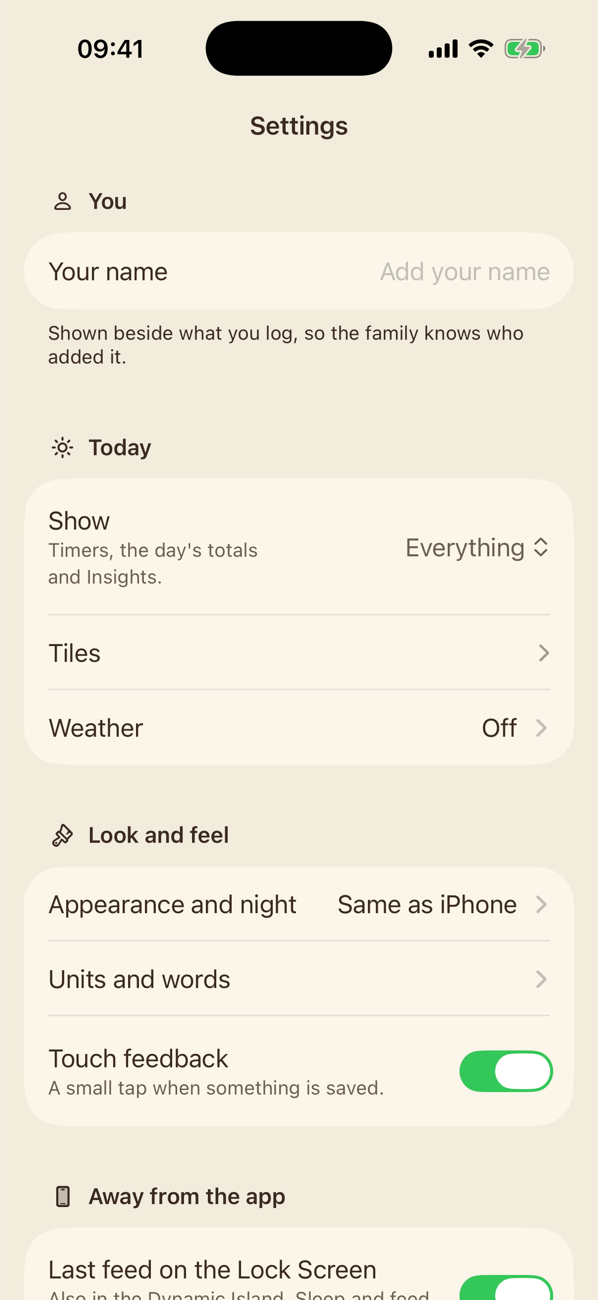
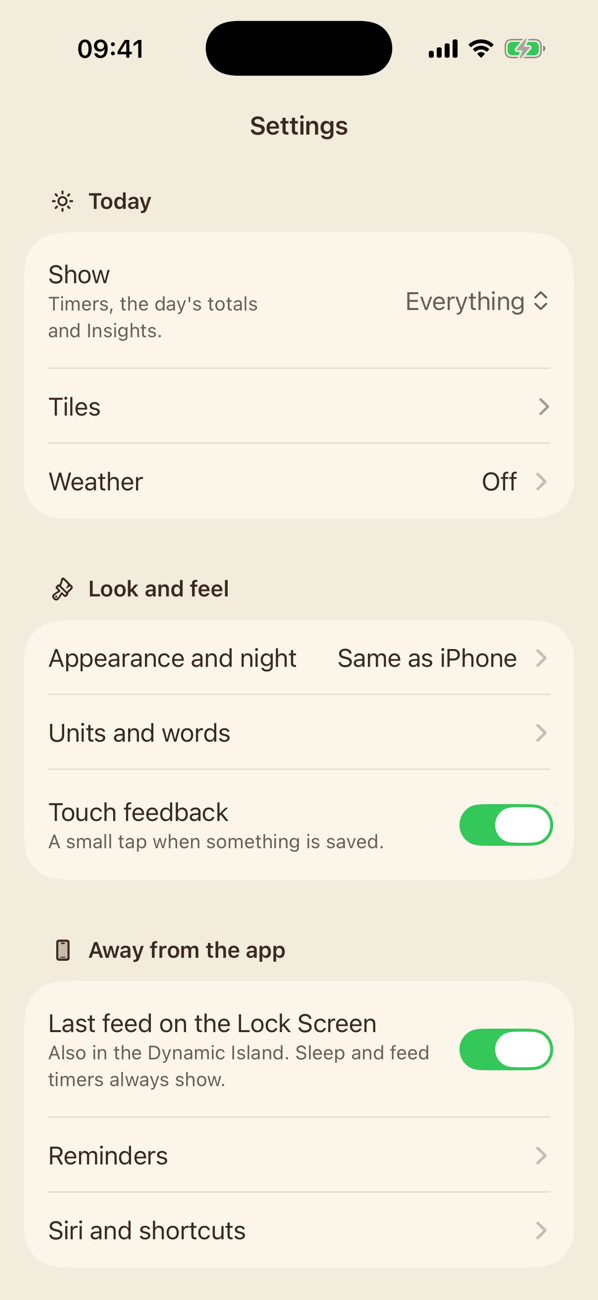
You at the head of Family, Puggle on the weather page, and plainer copy on the other settings screens

diff --git a/app/Puggle/Features/Family/SettingsDetailViews.swift b/app/Puggle/Features/Family/SettingsDetailViews.swift
@@ -200,6 +200,11 @@ struct WeatherSettingsView: View {
     var body: some View {
         List {
             Section {
+                WeatherPreview(live: isOn && watch.trouble == nil ? Weather(rawValue: live) : nil)
+                    .listRowInsets(EdgeInsets())
+                    .listRowBackground(Color.clear)
+            }
+            Section {
                 Toggle("Match the weather outside", isOn: Binding(get: { isOn }, set: { on in
                     if on { watch.turnOn() } else { watch.turnOff() }
                 }))
@@ -210,9 +215,7 @@ struct WeatherSettingsView: View {
                         if TesterDetail.on, let detail = watch.troubleDetail {
                             Text(detail).font(.footnote.monospaced()).foregroundStyle(Palette.muted).textSelection(.enabled)
                         }
-                    } else if let now = Weather(rawValue: live) {
-                        LabeledContent("Now", value: now.name)
-                    } else {
+                    } else if Weather(rawValue: live) == nil {
                         LabeledContent("Now", value: "Checking")
                     }
                 }
@@ -245,5 +248,60 @@ struct WeatherSettingsView: View {
         .background(Palette.sand)
         .navigationTitle("Weather on Today")
         .navigationBarTitleDisplayMode(.inline)
+    }
+}
+
+/// Puggle in her scene, at the top of the weather page, showing what the switch does (Tom, 15 November 2026).
+/// With the weather on it is the weather outside now. With it off, it steps through a few kinds as examples,
+/// by day so each can be seen. With Reduce Motion it holds on rain.
+private struct WeatherPreview: View {
+    /// The real weather, when it is on and known.
+    let live: Weather?
+
+    @StateObject private var controller = PuggleController()
+    @Environment(\.accessibilityReduceMotion) private var reduceMotion
+    @Environment(\.colorScheme) private var scheme
+    @Environment(\.puggleNight) private var night
+    @State private var step = 0
+    private static let examples: [Weather] = [.rain, .clear, .windy, .snow, .hot]
+
+    private var weather: Weather { live ?? Self.examples[step % Self.examples.count] }
+
+    var body: some View {
+        let dark = live != nil && (scheme == .dark || night)
+        let after = live != nil && PuggleScene.isNight(dark: dark)
+        let wearing = weather.outfit(night: after)
+        ZStack(alignment: .bottom) {
+            PuggleScene(kind: .today, dark: dark, hourOverride: live == nil ? 11 : nil, weather: weather)
+            PuggleView(controller: controller)
+                .environment(\.moonlit, after)
+                .environment(\.outfit, wearing)
+                .environment(\.shades, Shades.forOutfit(wearing))
+                .frame(height: 104)
+                .padding(.bottom, 22)
+                .id(wearing)
+        }
+        .frame(height: 190)
+        .frame(maxWidth: .infinity)
+        .clipShape(RoundedRectangle(cornerRadius: 22, style: .continuous))
+        .overlay(alignment: .topLeading) {
+            Text(live == nil ? "For example: \(weather.name.lowercased())" : weather.name)
+                .font(.footnote.weight(.semibold))
+                .foregroundStyle(Palette.fixedInk)
+                .padding(.horizontal, 10)
+                .padding(.vertical, 5)
+                .background(Palette.fixedPaper.opacity(0.9), in: Capsule())
+                .padding(10)
+        }
+        .animation(.easeInOut(duration: 0.6), value: weather)
+        .accessibilityElement()
+        .accessibilityLabel(live == nil ? "A picture of Puggle in the \(weather.name.lowercased())" : "Puggle in today's weather: \(weather.name.lowercased())")
+        .task(id: live == nil) {
+            guard live == nil, !reduceMotion else { return }
+            while !Task.isCancelled {
+                try? await Task.sleep(for: .seconds(3.5))
+                step += 1
+            }
+        }
     }
 }

diff --git a/app/Puggle/Features/Family/FamilyView.swift b/app/Puggle/Features/Family/FamilyView.swift
@@ -10,6 +10,7 @@ struct FamilyView: View {
     private var children: [Child] { store.onScreen(allChildren) }
 
     @State private var addingChild = false
+    @State private var showingYou = false
     @FetchRequest(sortDescriptors: [SortDescriptor(\Person.createdAt)]) private var allPeople: FetchedResults<Person>
     @State private var sharing: SharingItem?
     @State private var shareError: String?
@@ -31,20 +32,28 @@ struct FamilyView: View {
                         .listRowInsets(EdgeInsets())
                         .listRowBackground(Color.clear)
                 }
+                // You, at the head of your family, as the iPhone's own Settings has it (Tom, 15 November 2026).
                 Section {
-                    NavigationLink {
-                        SettingsView()
-                    } label: {
-                        HStack(spacing: 12) {
-                            Image(systemName: "gearshape")
-                                .font(.system(size: 34))
-                                .frame(width: 40, height: 40)
-                            VStack(alignment: .leading) {
-                                Text("Settings").font(.headline)
-                                Text("Reminders, your data and help").font(.subheadline).foregroundStyle(Palette.muted)
+                    Button { showingYou = true } label: {
+                        HStack(spacing: 14) {
+                            YourAvatar(size: 56)
+                            VStack(alignment: .leading, spacing: 2) {
+                                Text(yourName.trimmingCharacters(in: .whitespaces).isEmpty ? "Add your name" : yourName)
+                                    .font(.title3.weight(.semibold))
+                                    .foregroundStyle(Palette.ink)
+                                Text("\(store.role.title) · \(store.familyName.isEmpty ? store.childrenTitle : store.familyName)")
+                                    .font(.subheadline)
+                                    .foregroundStyle(Palette.muted)
+                                    .lineLimit(1)
                             }
+                            Spacer(minLength: 0)
+                            Image(systemName: "chevron.right").font(.footnote.weight(.semibold)).foregroundStyle(Palette.muted.opacity(0.6))
                         }
+                        .padding(.vertical, 4)
+                        .contentShape(Rectangle())
                     }
+                    .buttonStyle(.plain)
+                    .accessibilityHint("Your name and photo")
                     .listRowBackground(Palette.paper)
                 }
                 if store.isParent && !sample.isOn {
@@ -160,11 +169,18 @@ struct FamilyView: View {
                 if let shareError {
                     Text(shareError).font(.footnote).foregroundStyle(Palette.waratah)
                 }
+                Section {
+                    NavigationLink { SettingsView() } label: { Label("Settings", systemImage: "gearshape") }
+                    NavigationLink { HelpView() } label: { Label("Help and about", systemImage: "questionmark.circle") }
+                }
+                .foregroundStyle(Palette.ink)
+                .listRowBackground(Palette.paper)
             }
             .scrollContentBackground(.hidden)
             .background(Palette.sand)
             .navigationTitle("Family")
             .sheet(isPresented: $addingChild) { AddChildView() }
+            .sheet(isPresented: $showingYou) { YouView() }
             .sheet(isPresented: $inviting) {
                 InviteSheet { invite in
                     pending = invite

diff --git a/app/Puggle/Features/Reminders/Reminders.swift b/app/Puggle/Features/Reminders/Reminders.swift
@@ -260,7 +260,7 @@ struct RemindersView: View {
             }
             Section {
                 if reminders.reminders.isEmpty {
-                    Text("No reminders yet. They are off until you add one.")
+                    Text("No reminders yet.")
                         .foregroundStyle(Palette.muted)
                 }
                 ForEach(reminders.reminders) { reminder in
@@ -271,7 +271,7 @@ struct RemindersView: View {
                     offsets.map { reminders.reminders[$0] }.forEach(reminders.delete)
                 }
             } footer: {
-                Text("Reminders are just for you, on this iPhone. Nobody else in the family gets them.")
+                Text("Reminders show on this iPhone only.")
             }
             .listRowBackground(Palette.paper)
 
@@ -283,7 +283,7 @@ struct RemindersView: View {
                     }
             } footer: {
                 Text(justLog ? "Off while Just logging is on." :
-                     "Two days before a child reaches a new row on a tin you've read, once. It says the row changes, not how much to give.")
+                     "Once, two days before a child reaches a new row on a tin you've read. It says the row changes, not how much to give.")
             }
             .listRowBackground(Palette.paper)
             .disabled(justLog)
@@ -407,7 +407,7 @@ private struct ReminderEditor: View {
         .listRowBackground(Palette.paper)
         Section {
         } footer: {
-            Text("Counted from the last feed anyone logged. You choose the time; the app doesn't suggest one.")
+            Text("Counted from the last feed anyone logged. The app never suggests a time.")
         }
     }
 
@@ -434,7 +434,7 @@ private struct ReminderEditor: View {
             DatePicker("From", selection: minutes(\.from), displayedComponents: .hourAndMinute)
             DatePicker("Until", selection: minutes(\.until), displayedComponents: .hourAndMinute)
         } footer: {
-            Text("A gentle \"Time to try?\" during the day. Never a nag.")
+            Text("A quiet \"Time to try?\" between these times.")
         }
     }
 

diff --git a/app/Puggle/Features/Family/SettingsView.swift b/app/Puggle/Features/Family/SettingsView.swift
@@ -40,12 +40,11 @@ enum Setting {
 /// Settings, reached from the Family tab.
 ///
 /// Grouped by what a parent is trying to do (Tom, 15 November 2026: it felt crammed and confusing):
-/// who they are, what Today shows, how the app looks, what shows away from the app, the children, privacy
+/// what Today shows, how the app looks, what shows away from the app, the children, privacy
 /// and data, and help. Every section has a heading. A line of help sits inside the row it explains, so it
 /// is never read as being about the whole group. Appearance, units, weather and reminders have their own screens.
 struct SettingsView: View {
     @EnvironmentObject private var sample: SampleFamily
-    @AppStorage(Setting.yourName) private var yourName = ""
     @AppStorage(Setting.justLog) private var justLog = false
     @AppStorage(Setting.pottyStickers) private var stickersOn = true
     @AppStorage(Setting.lockScreenGlance) private var glanceOn = true
@@ -58,7 +57,6 @@ struct SettingsView: View {
 
     var body: some View {
         List {
-            youSection
             todaySection
             lookSection
             awaySection
@@ -96,22 +94,6 @@ struct SettingsView: View {
             Text(help).font(.footnote).foregroundStyle(Palette.muted).fixedSize(horizontal: false, vertical: true)
         }
         .padding(.vertical, 3)
-    }
-
-    private var youSection: some View {
-        Section {
-            LabeledContent("Your name") {
-                TextField("Add your name", text: $yourName)
-                    .textContentType(.givenName)
-                    .submitLabel(.done)
-                    .multilineTextAlignment(.trailing)
-            }
-        } header: {
-            heading("You", "person")
-        } footer: {
-            Text("Shown beside what you log, so the family knows who added it.")
-        }
-        .listRowBackground(Palette.paper)
     }
 
     private var todaySection: some View {

diff --git a/app/Puggle/Features/Family/YourDataView.swift b/app/Puggle/Features/Family/YourDataView.swift
@@ -22,11 +22,11 @@ struct YourDataView: View {
 
     var body: some View {
         List {
-            Section("Where it lives") {
+            Section("Where it's kept") {
                 Text(Persistence.cloudSyncEnabled
-                     ? "Everything you log is kept on this iPhone and in your own iCloud, so it reaches the people you invite. We hold none of it."
+                     ? "Everything you log is kept on this iPhone and in your own iCloud, so it reaches the people you invite. Nobody else has a copy."
                      : "Everything you log is kept on this iPhone only. This build does not use iCloud, so nothing leaves the phone and nothing is shared.")
-                Text("No ads, no tracking, no analytics.")
+                Text("No ads and no tracking.")
                 if store.isSample {
                     Text("This is the sample family, so an export holds the made-up entries.")
                 }
@@ -213,7 +213,7 @@ struct HelpView: View {
     var body: some View {
         List {
             if matches.isEmpty {
-                Text("Nothing found. Try another word, or get in touch below.")
+                Text("Nothing found. Try another word, or send an email below.")
                     .foregroundStyle(Palette.muted)
                     .listRowBackground(Palette.paper)
             }
@@ -236,10 +236,10 @@ struct HelpView: View {
                 Button {
                     contact()
                 } label: {
-                    Label("Contact us", systemImage: "envelope")
+                    Label("Send an email", systemImage: "envelope")
                 }
             } footer: {
-                Text("Opens an email with the app and iOS version filled in, so it's easy to help.")
+                Text("Opens an email with the app and iOS version filled in.")
             }
             .listRowBackground(Palette.paper)
             Section("About") {

diff --git a/app/Puggle/Features/Family/SiriView.swift b/app/Puggle/Features/Family/SiriView.swift
@@ -16,7 +16,7 @@ struct SiriView: View {
     private var phrases: [(symbol: String, words: String, does: String)] {
         [("moon", "Start sleep for \(name) in Puggle", "Starts the sleep timer"),
          ("sun.max", "\(name) woke up in Puggle", "Ends it"),
-         ("drop", "Log \(Terms.aNappy) for \(name) in Puggle", "Saves a wet \(Terms.nappyLower). Change it in the app if not"),
+         ("drop", "Log \(Terms.aNappy) for \(name) in Puggle", "Saves a wet \(Terms.nappyLower). Change it later in the app"),
          ("waterbottle", "Log a bottle for \(name) in Puggle", "Asks how much"),
          ("clock", "When was \(name) last fed in Puggle", "Tells you, out loud")]
     }
@@ -40,7 +40,7 @@ struct SiriView: View {
             } header: {
                 Text("Say to Siri")
             } footer: {
-                Text("Nothing to set up. Say \u{201C}Hey Siri\u{201D} or hold the side button first. Any child's name works.")
+                Text("Say \u{201C}Hey Siri\u{201D} or hold the side button first. Any child's name works.")
             }
             .listRowBackground(Palette.paper)
 
@@ -71,7 +71,7 @@ struct SiriView: View {
             } header: {
                 Text("A dark look at bedtime")
             } footer: {
-                Text("The app goes dark at bedtime; the rest of the phone doesn't change.")
+                Text("Only the app goes dark. The rest of the phone doesn't change.")
             }
             .listRowBackground(Palette.paper)
         }

diff --git a/app/Puggle/Features/Family/YouView.swift b/app/Puggle/Features/Family/YouView.swift
@@ -61,7 +61,7 @@ struct YourAvatar: View {
     }
 }
 
-/// You: your photo and name. Settings and Help are one row away.
+/// You: your photo and name. Settings and Help are on the Family tab.
 struct YouView: View {
     @Environment(\.dismiss) private var dismiss
     @AppStorage(Setting.yourName) private var yourName = ""
@@ -99,14 +99,6 @@ struct YouView: View {
                          : "Your name and photo are shown to your family, beside what you log.")
                 }
                 .listRowBackground(Palette.input)
-
-                // One way in to everything else. A shortlist here repeated half of Settings and left the
-                // other half a second tap away (Tom, 15 November 2026).
-                Section {
-                    NavigationLink("Settings") { SettingsView() }
-                    NavigationLink("Help and about") { HelpView() }
-                }
-                .listRowBackground(Palette.paper)
 
                 Section {
                     EmptyView()

diff --git a/app/Puggle/App/PuggleApp.swift b/app/Puggle/App/PuggleApp.swift
@@ -262,7 +262,7 @@ struct RootView: View {
             NavigationStack { ImportView(debug: look) }
         } else if let screen = UserDefaults.standard.string(forKey: "debugSettings") {
             // For checking Settings: "-debugSettings main", "weather" or "you".
-            if screen == "you" { YouView() }
+            if screen == "you" { YouView() } else if screen == "family" { FamilyView() }
             else { NavigationStack { if screen == "weather" { WeatherSettingsView() } else { SettingsView() } } }
         } else if UserDefaults.standard.string(forKey: "debugSync") != nil {
             // For checking the sync screen part-way through a send: "-debugSync 0.4" (or 1 for up to date).

diff --git a/docs/baby-tracker-spec.md b/docs/baby-tracker-spec.md
@@ -1473,3 +1473,22 @@ Apple Weather mark and a "Data sources" link, which Apple requires. The night lo
 sentence each.
 
 **Not yet reviewed:** Reminders, Your data, Help and about, Siri and shortcuts, and the tile chooser.
+
+**Settings, second pass (15 November 2026).** Apple's guidance on settings (Human Interface Guidelines,
+Settings) in short: ship good defaults, offer as few settings as possible, keep options for one screen on
+that screen, and do not repeat what the system already governs. Taken from the iPhone's own Settings: you at
+the head, in a card with your photo and name, and everything else beneath.
+
+- **You and Family are one place.** The Family tab opens with a card for the person (photo, name, "Parent ·
+  Ollie and Bea's family") that opens their photo and name. Children and Family and friends follow. Settings
+  and Help and about are two rows at the foot. Settings no longer has a You group, and the You sheet is only
+  the photo and name.
+- **Weather on Today** opens with Puggle in her scene (`WeatherPreview`). With the weather off it steps
+  through rain, fine, windy, snow and hot as examples, by day. With it on it shows the weather outside now.
+  The "Now" row went, since the picture says it.
+- **Copy** on Reminders, Your data, Help and about, and Siri and shortcuts: no "we" or "us" ("Contact us" is
+  "Send an email"; "We hold none of it" is "Nobody else has a copy"), and the lines that sold ("Never a nag",
+  "Nothing to set up", "No ads, no tracking, no analytics") are plain or gone.
+
+Open, from Apple's guidance: Tiles is an option for one screen, and Today already has its own Edit, so the
+Tiles row in Settings may not be needed. Appearance repeats the iPhone's own light and dark setting.
